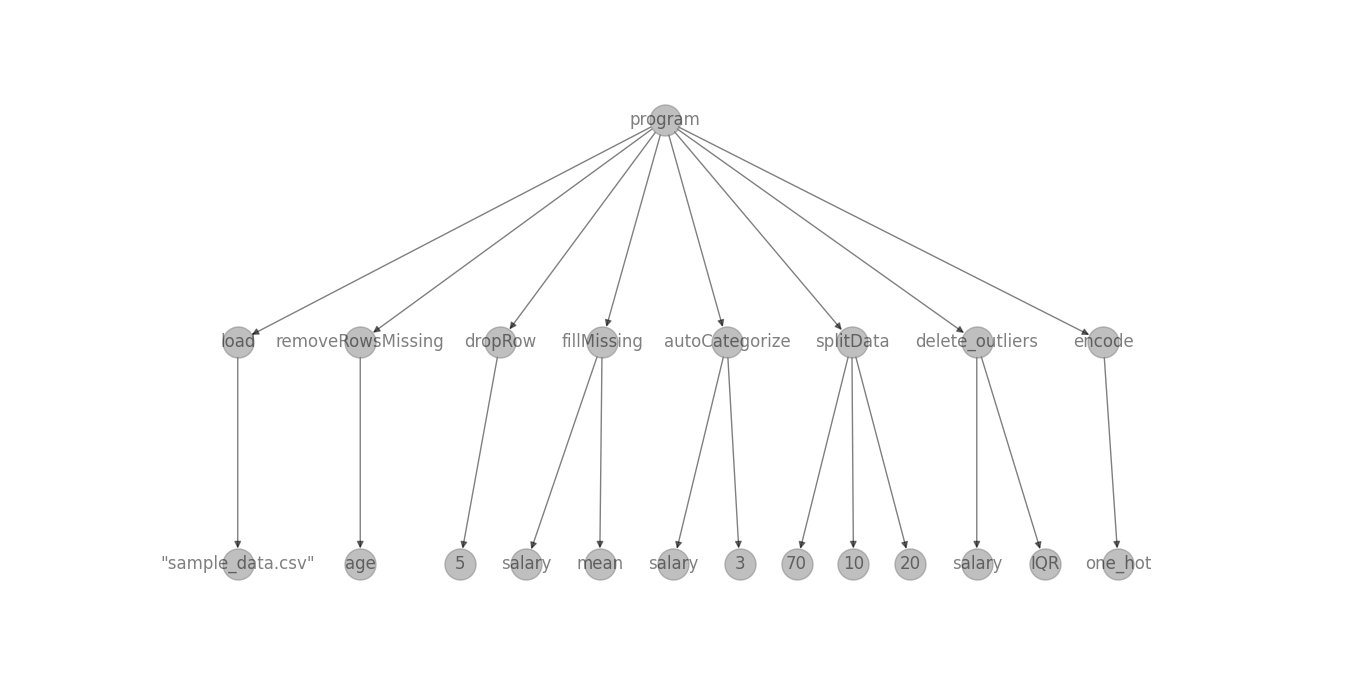
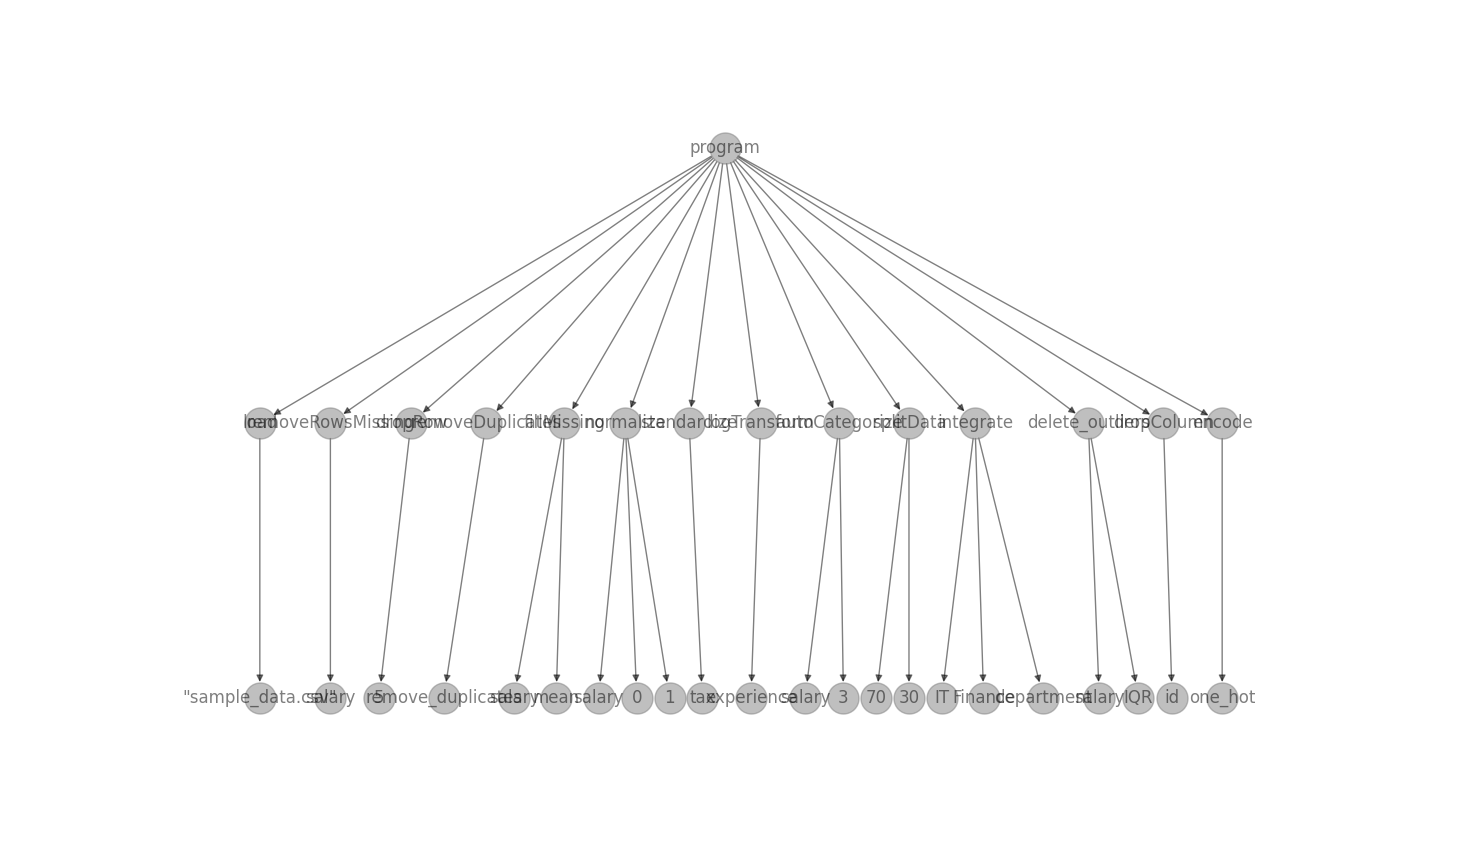
add comments

diff --git a/listener/DataCleanerCodeGenerator.py b/listener/DataCleanerCodeGenerator.py
@@ -19,6 +19,7 @@ class DataCleanerCodeGenerator:
 
     def generate_code(self, traversal):
         def print_csv():
+            self.code_stack.append("\n# print & save")
             self.code_stack.append("print(data)")
 
         for node in traversal:
@@ -77,6 +78,7 @@ class DataCleanerCodeGenerator:
 
     def generate_remove_rows_missing_code(self):
         column = self.operand_stack.pop()
+        self.code_stack.append(f"\n# remove missing rows")
         self.code_stack.append(f"""data = data.dropna(subset=['{column}'])
 data.reset_index(drop=True, inplace=True)""")
 
@@ -84,25 +86,31 @@ data.reset_index(drop=True, inplace=True)""")
         method = self.operand_stack.pop()
         column = self.operand_stack.pop()
         if method == "mean":
+            self.code_stack.append(f"\n# fill missing with mean")
             self.code_stack.append(f"data['{column}'] = data['{column}'].fillna(round(data['{column}'].mean(), 2))")
         elif method == "median":
+            self.code_stack.append(f"\n# fill missing with median")
             self.code_stack.append(f"data['{column}'] = data['{column}'].fillna(round(data['{column}'].median(), 2))")
         elif method == "mode":
+            self.code_stack.append(f"\n# fill missing with mode")
             self.code_stack.append(f"data['{column}'] = data['{column}'].fillna(round(data['{column}'].mode()[0], 2)")
 
     def generate_normalize_code(self):
         max_val = self.operand_stack.pop()
         min_val = self.operand_stack.pop()
         column = self.operand_stack.pop()
+        self.code_stack.append(f"\n# normalize column")
         self.code_stack.append(f"data['{column}'] = (data['{column}'] - data['{column}'].min()) / (data['{column}'].max() - data['{column}'].min()) * ({max_val} - {min_val}) + {min_val}")
 
     def generate_standardize_code(self):
         column = self.operand_stack.pop()
+        self.code_stack.append(f"\n# standardize column")
         self.code_stack.append(f"data['{column}'] = (data['{column}'] - data['{column}'].mean()) / data['{column}'].std()")
 
 
     def generate_log_transform_code(self):
         column = self.operand_stack.pop()
+        self.code_stack.append(f"\n# logarithm transform column")
         self.code_stack.append(f"data['{column}'] = np.log1p(data['{column}'])")
 
 
@@ -110,6 +118,7 @@ data.reset_index(drop=True, inplace=True)""")
         clusters = self.operand_stack.pop()
         column = self.operand_stack.pop()
 
+        self.code_stack.append(f"\n# auto categorize column")
         self.code_stack.append(f"from sklearn.cluster import KMeans")
         self.code_stack.append("try:")
         self.code_stack.append(f"    kmeans = KMeans(n_clusters={clusters})")
@@ -121,23 +130,29 @@ data.reset_index(drop=True, inplace=True)""")
         test_ratio = int(self.operand_stack.pop()) / 100
         train_ratio = int(self.operand_stack.pop()) / 100
 
+        self.code_stack.append(f"\n# split data")
         self.code_stack.append(f"""train_data, test_data = np.split(data.sample(frac=1, random_state=42), [int(r * len(data)) for r in np.cumsum([{train_ratio}, {test_ratio}][:-1])])
 train_data.to_csv('train_data.csv', index=False)
 test_data.to_csv('test_data.csv', index=False)""")
 
     def generate_remove_duplicate_code(self):
+        self.code_stack.append(f"\n# remove duplicate")
         self.code_stack.append("data = data.drop_duplicates()")
 
     def generate_drop_row_code(self):
         drop_list = []
         while len(self.operand_stack):
             drop_list.append(int(self.operand_stack.pop()))
+
+        self.code_stack.append(f"\n# drop row")
         self.code_stack.append(f"data = data.drop({[number-1 for number in drop_list]})")
 
     def generate_drop_column_code(self):
         drop_list = []
         while len(self.operand_stack):
             drop_list.append(self.operand_stack.pop())
+
+        self.code_stack.append(f"\n# drop column")
         self.code_stack.append(f"data = data.drop(columns={drop_list})")
 
     def generate_integrate_inconsistent_data_code(self):
@@ -147,6 +162,7 @@ test_data.to_csv('test_data.csv', index=False)""")
         while len(self.operand_stack):
             inconsistent_values.append(self.operand_stack.pop())
 
+        self.code_stack.append(f"\n# integrate inconsistent")
         self.code_stack.append(f"data['{column_name}'] = data['{column_name}'].replace({inconsistent_values}, '{consistent_value}')")
 
     def generate_encoding_code(self):
@@ -160,7 +176,7 @@ test_data.to_csv('test_data.csv', index=False)""")
         columns = []
         if not len(other_params):
             all_columns = True
-
+        self.code_stack.append(f"\n# encode")
         if not all_columns:
             param = other_params[0]
             if param.startswith("exclude_columns"):
@@ -181,6 +197,7 @@ test_data.to_csv('test_data.csv', index=False)""")
                 self.code_stack.append(f"data = pd.get_dummies(columns={columns})")
 
     def generate_delete_outliers_code(self):
+        self.code_stack.append(f"\n# delete outliers")
         method = self.operand_stack.pop()
         other_params = []
         while len(self.operand_stack):
@@ -224,4 +241,5 @@ for col in columns_to_delete_outlier:
         while len(self.operand_stack):
             excluded_columns.append(self.operand_stack.pop())
 
+        self.code_stack.append(f"\n# excluded columns")
         self.operand_stack.append(f"exclude_columns({excluded_columns})")

diff --git a/output.py b/output.py
@@ -1,19 +1,46 @@
 import pandas as pd
 import numpy as np
 data = pd.read_csv("sample_data.csv")
-data = data.dropna(subset=['age'])
+
+# remove missing rows
+data = data.dropna(subset=['salary'])
 data.reset_index(drop=True, inplace=True)
+
+# drop row
 data = data.drop([4])
+
+# remove duplicate
+data = data.drop_duplicates()
+
+# fill missing with mean
 data['salary'] = data['salary'].fillna(round(data['salary'].mean(), 2))
+
+# normalize column
+data['salary'] = (data['salary'] - data['salary'].min()) / (data['salary'].max() - data['salary'].min()) * (1 - 0) + 0
+
+# standardize column
+data['tax'] = (data['tax'] - data['tax'].mean()) / data['tax'].std()
+
+# logarithm transform column
+data['experience'] = np.log1p(data['experience'])
+
+# auto categorize column
 from sklearn.cluster import KMeans
 try:
     kmeans = KMeans(n_clusters=3)
     data['salary'] = kmeans.fit_predict(data['salary'].values.reshape(-1, 1))
 except:
     print('Invalid Data!')
+
+# split data
 train_data, test_data = np.split(data.sample(frac=1, random_state=42), [int(r * len(data)) for r in np.cumsum([0.7, 0.3][:-1])])
 train_data.to_csv('train_data.csv', index=False)
 test_data.to_csv('test_data.csv', index=False)
+
+# integrate inconsistent
+data['department'] = data['department'].replace(['IT', 'removeDuplicates'], 'Finance')
+
+# delete outliers
 columns_to_delete_outlier = ['salary']
 
 for col in columns_to_delete_outlier:
@@ -24,6 +51,13 @@ for col in columns_to_delete_outlier:
     upper_bound = Q3 + 1.5 * IQR
     data = data[(data[col] >= lower_bound) & (data[col] <= upper_bound)]
             
+
+# drop column
+data = data.drop(columns=['id'])
+
+# encode
 data = pd.get_dummies(data)
+
+# print & save
 print(data)
 data.to_csv('cleaned_data.csv', index=False)

diff --git a/main.py b/main.py
@@ -47,3 +47,5 @@ if __name__ == '__main__':
     argparser.add_argument('-o', '--output', help='Output path', default=r'output.py')
     args = argparser.parse_args()
     main(args)
+    exec(open('output.py').read())
+
